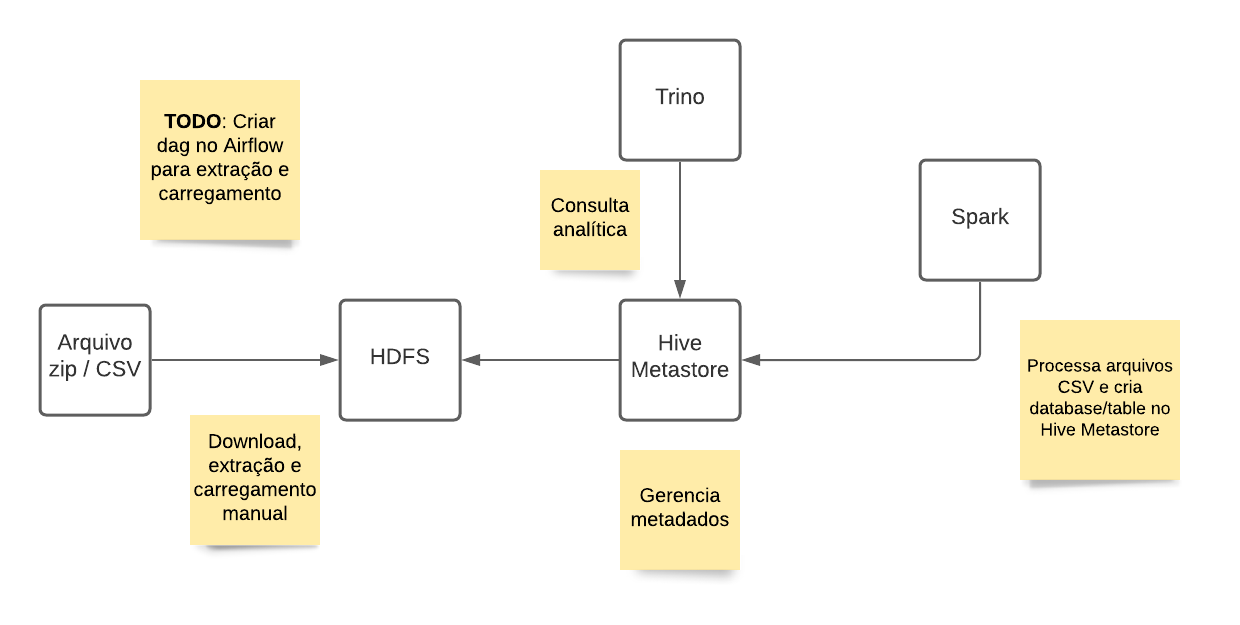
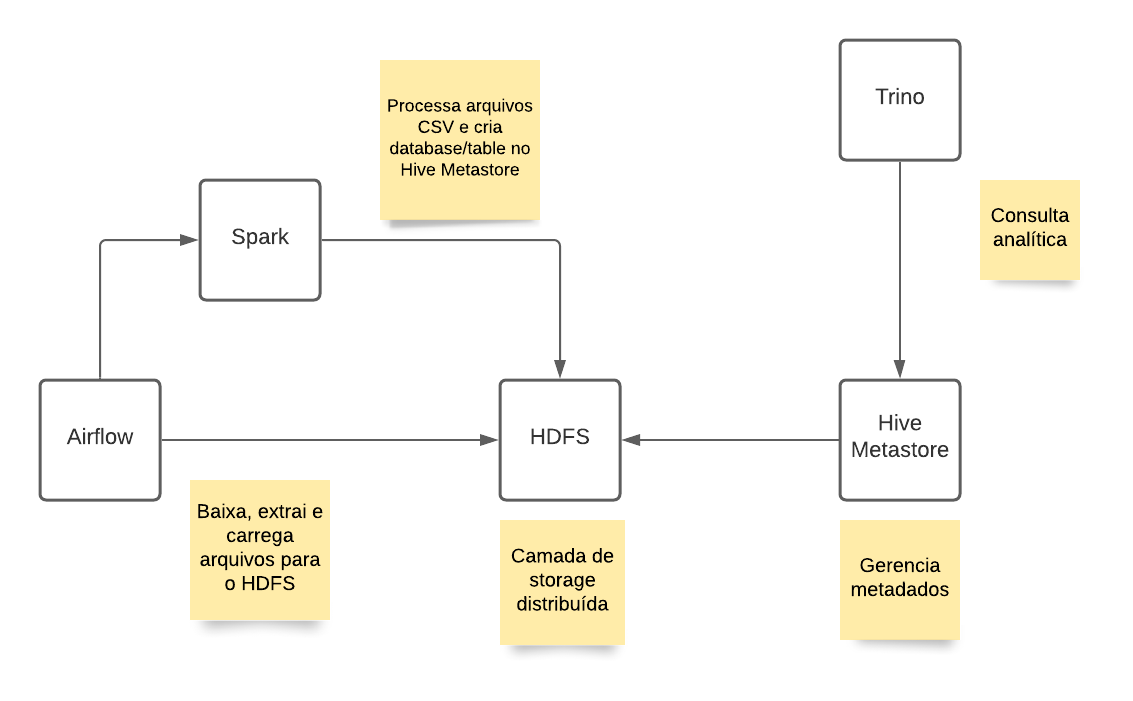
chore: add airflow dag; update readme and architecture image

diff --git a/airflow/dags/censo_dag.py b/airflow/dags/censo_dag.py
@@ -3,6 +3,8 @@ from airflow.models import DAG
 from airflow.operators.bash import BashOperator
 from airflow.hooks.webhdfs_hook import WebHDFSHook
 from airflow.operators.python_operator import PythonOperator
+from airflow.contrib.operators.spark_submit_operator import SparkSubmitOperator
+from airflow.hooks.base_hook import BaseHook
 
 CENSO_FILE = "microdados_censo_escolar_2020"
 
@@ -18,6 +20,9 @@ def load_file(destination, source, conn_id='hdfs_http', overwrite=True):
     hook = WebHDFSHook(conn_id)
     hook.load_file(source, destination, overwrite)
 
+def hdfs_conn(conn_id='hdfs'):
+    conn = BaseHook.get_connection(conn_id)
+    return f"hdfs://{conn.host}:{conn.port}"
 
 with DAG(
     dag_id="censo_escolar",
@@ -32,7 +37,7 @@ with DAG(
 
     unzip_file = BashOperator(
         task_id="unzip_file",
-        bash_command=f"unzip -o /tmp/{CENSO_FILE}.zip -d /tmp/microdados > /dev/null 2>&1"
+        bash_command=f"unzip -o /tmp/{CENSO_FILE}.zip -d /tmp/microdados > /dev/null"
     )
 
     filter_files = BashOperator(
@@ -49,4 +54,17 @@ with DAG(
         }
     )
 
-    download_file >> unzip_file >> filter_files >> load_to_hdfs
+    parse_data = SparkSubmitOperator(
+        task_id="parse_data",
+        spark_binary="spark-submit",
+        application=f"{hdfs_conn()}/spark/scripts/transform.py",
+        conn_id='spark',
+        application_args=[
+            '--database', 'censo',
+            '--table', 'alunos' ,
+            '--csv-path', '/spark/data/matriculas',
+            '--dwh-table-path', f"{hdfs_conn()}/user/hive/warehouse/censo"
+        ]
+    )
+
+    download_file >> unzip_file >> filter_files >> load_to_hdfs >> parse_data

diff --git a/spark/transform.py b/spark/transform.py
@@ -6,8 +6,7 @@ parser = argparse.ArgumentParser(description="Parse Censo data")
 
 parser.add_argument('--database', required=True)
 parser.add_argument('--table', required=True)
-parser.add_argument('--csv-path', required=True)  # /spark/data/matricula/
-# hdfs://namenode:8020/user/hive/warehouse/censo
+parser.add_argument('--csv-path', required=True)
 parser.add_argument('--dwh-table-path', required=True)
 args = parser.parse_args()
 

diff --git a/readme.md b/readme.md
@@ -11,10 +11,10 @@
 
 ### Pontos de melhoria
 
-- Adicionar dag no Apache Airflow para fazer a extração e carregamento dos dados no HDFS
 - Subir o dado bruto total para reprocessamento
-- Dependendo da demanda, frequência e criticidade para geração do relatório substituir o Trino por Apache Hive, assim, _suportará maior carga de dados a ser processado_ porém terá um tempo de processamento maior, por usar MapReduce (in disk)
-- Alterar a camada de storage (HDFS) por um serviço gerenciado que ainda mantenha a compatibilidade com as ferramentas utilizadas, por exemplo, AWS S3
+- Com o aumento do volume de dados e da frequência da geração de relatórios, substituir o Trino por Apache Hive, assim, **suportará maior carga de dados a ser processado** porém terá um tempo de processamento maior, por usar MapReduce (in disk)
+- **Com o aumento do volume de dados**, substituir a camada de armazenamento para um Object Storage em nuvem, por exemplo, AWS S3. Isso minimiza a responsabilidade de gerenciamento e tem um escalonamento de disco de forma "orgânica"
+- Repensar a forma com que os dados estão particionados
 
 Observação: das tecnologias utilizadas, leva-se em conta migrar para um ambiente gerenciado a fim de minimizar preocupações com infra-estrutura.
 
@@ -48,35 +48,14 @@ Em todos os componentes, há um arquivo `docker-compose.yml` que facilita subir 
 Para facilitar, listado os passos para subir o ambiente:
 
 ```bash
-# Baixe o arquivo do Censo Escolar
-# Extraia os arquivos CSV
-# Suba os containers do HDFS
 cd hdfs && docker-compose up
-
-# Mova os arquivos necessários (MATRICULA_*) para dentro do container
-docker cp pasta_arquivos_matricula namenode:/tmp/matricula
-
-# Crie as pastas necessárias
-cd hdfs && make mkdir dir=/spark/data/matricula flags="-p"; \
-make mkdir dir=/user/hive/warehouse flags="-p"; \
-make mkdir dir=/tmp
-
-# Mova os arquivos para dentro do HDFS
-cd hdfs && make cpFromLocal source=/tmp/matricula target=/spark/data/
-
-# Suba os outros components
 cd hive && docker-compose up hive-metastore
 cd spark && docker-compose up
 cd trino && docker-compose up
-
-# Importe o script spark para dentro do HDFS
-cd spark && make import_script file=pasta_do_projeto/spark/transform.py
-
-# Execute o script spark
-cd spark && make run_script script=transform.py  args="--database=censo --table=alunos --csv-path=/spark/data/matricula --dwh-table-path=hdfs://namenode:8020/user/hive/warehouse/censo"
-
-# Abra o SQLPad para executar as consultas no Trino
-# Rota http://localhost:3000
+cd airflow && docker-compose up
 ```
 
-Observação: no resultado da segunda consulta, mantive os códigos identificadores pois não encontrei uma correlação na documentação fornecida.
+- Mova o arquivo `airflow/dags/censo_dag.py` para a respectiva pasta de dags no projeto `open-dataplatform`
+- Navegue na rota http://localhost:9090 e habilite a execução da dag `censo_escolar`
+- Após a execução completa da dag, navegue pela rota http://localhost:3000
+- Execute as queries que estão na pasta `trino`
